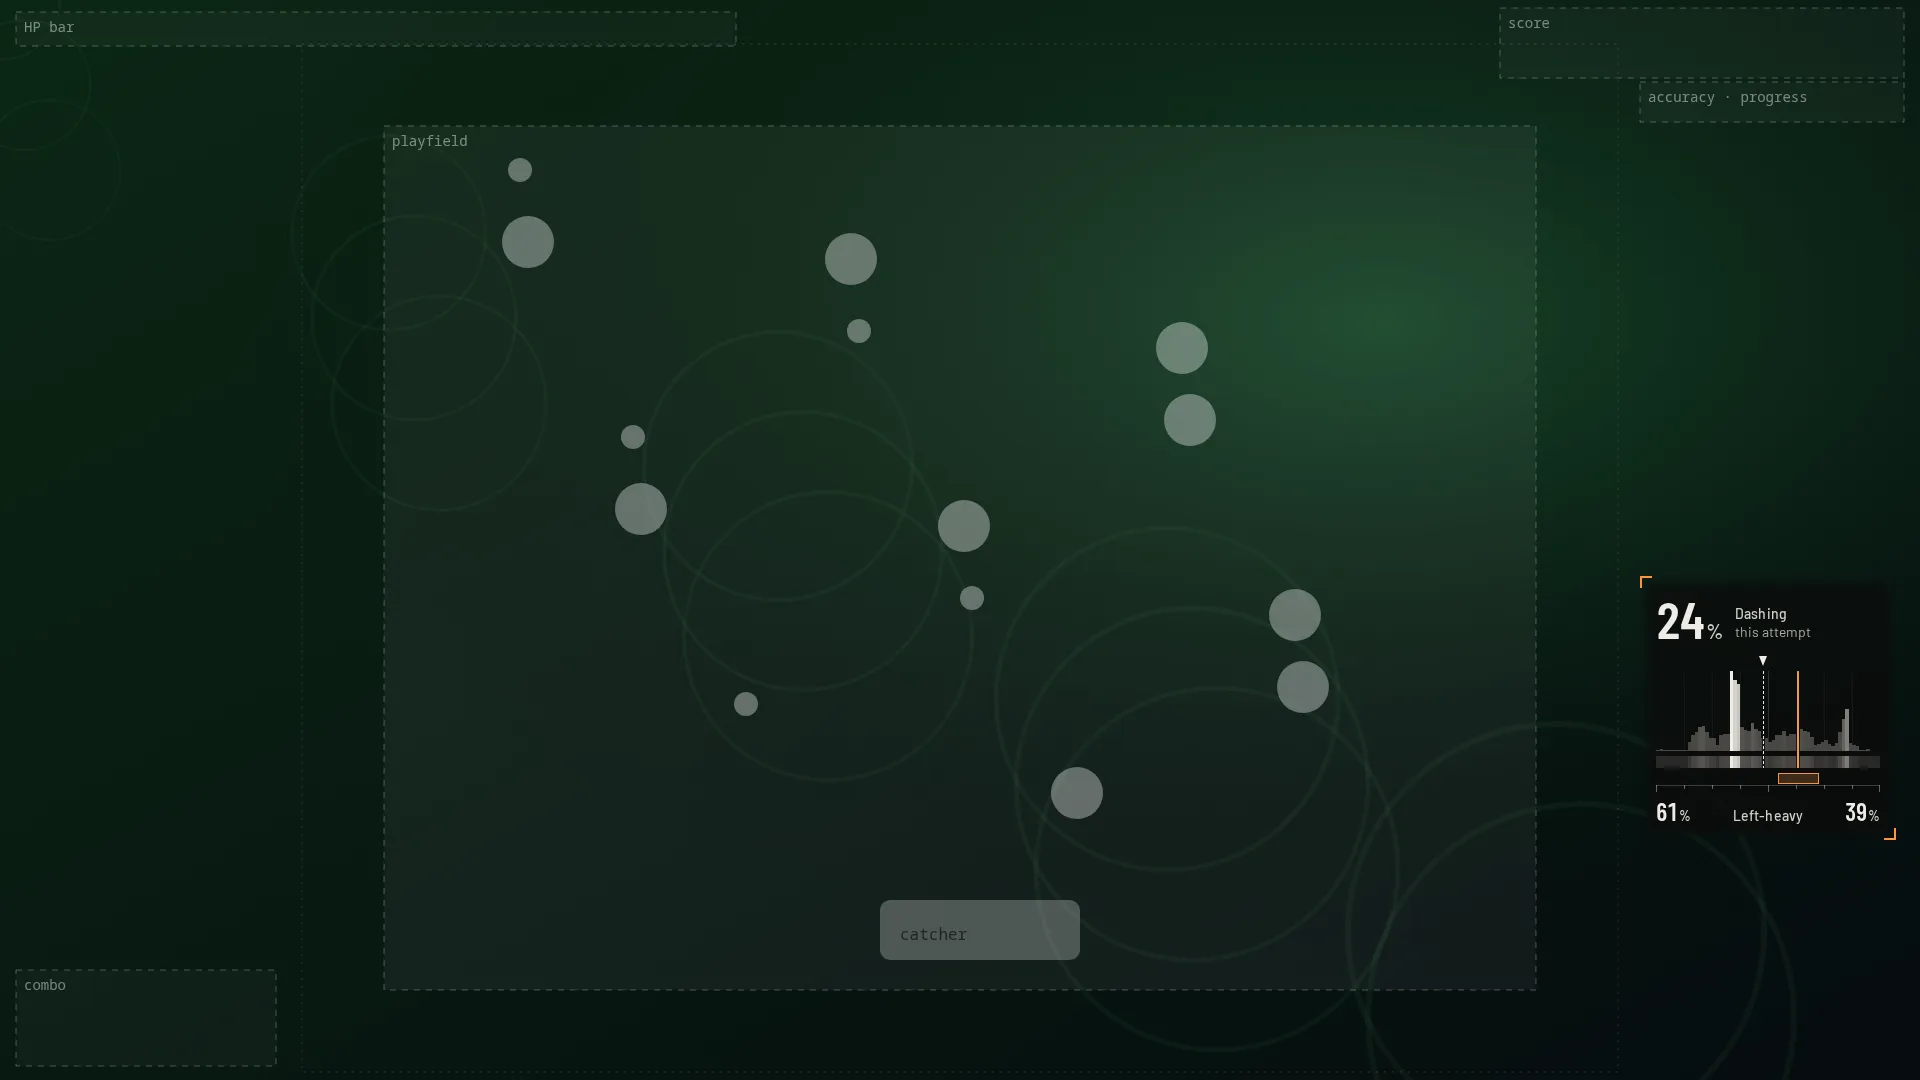
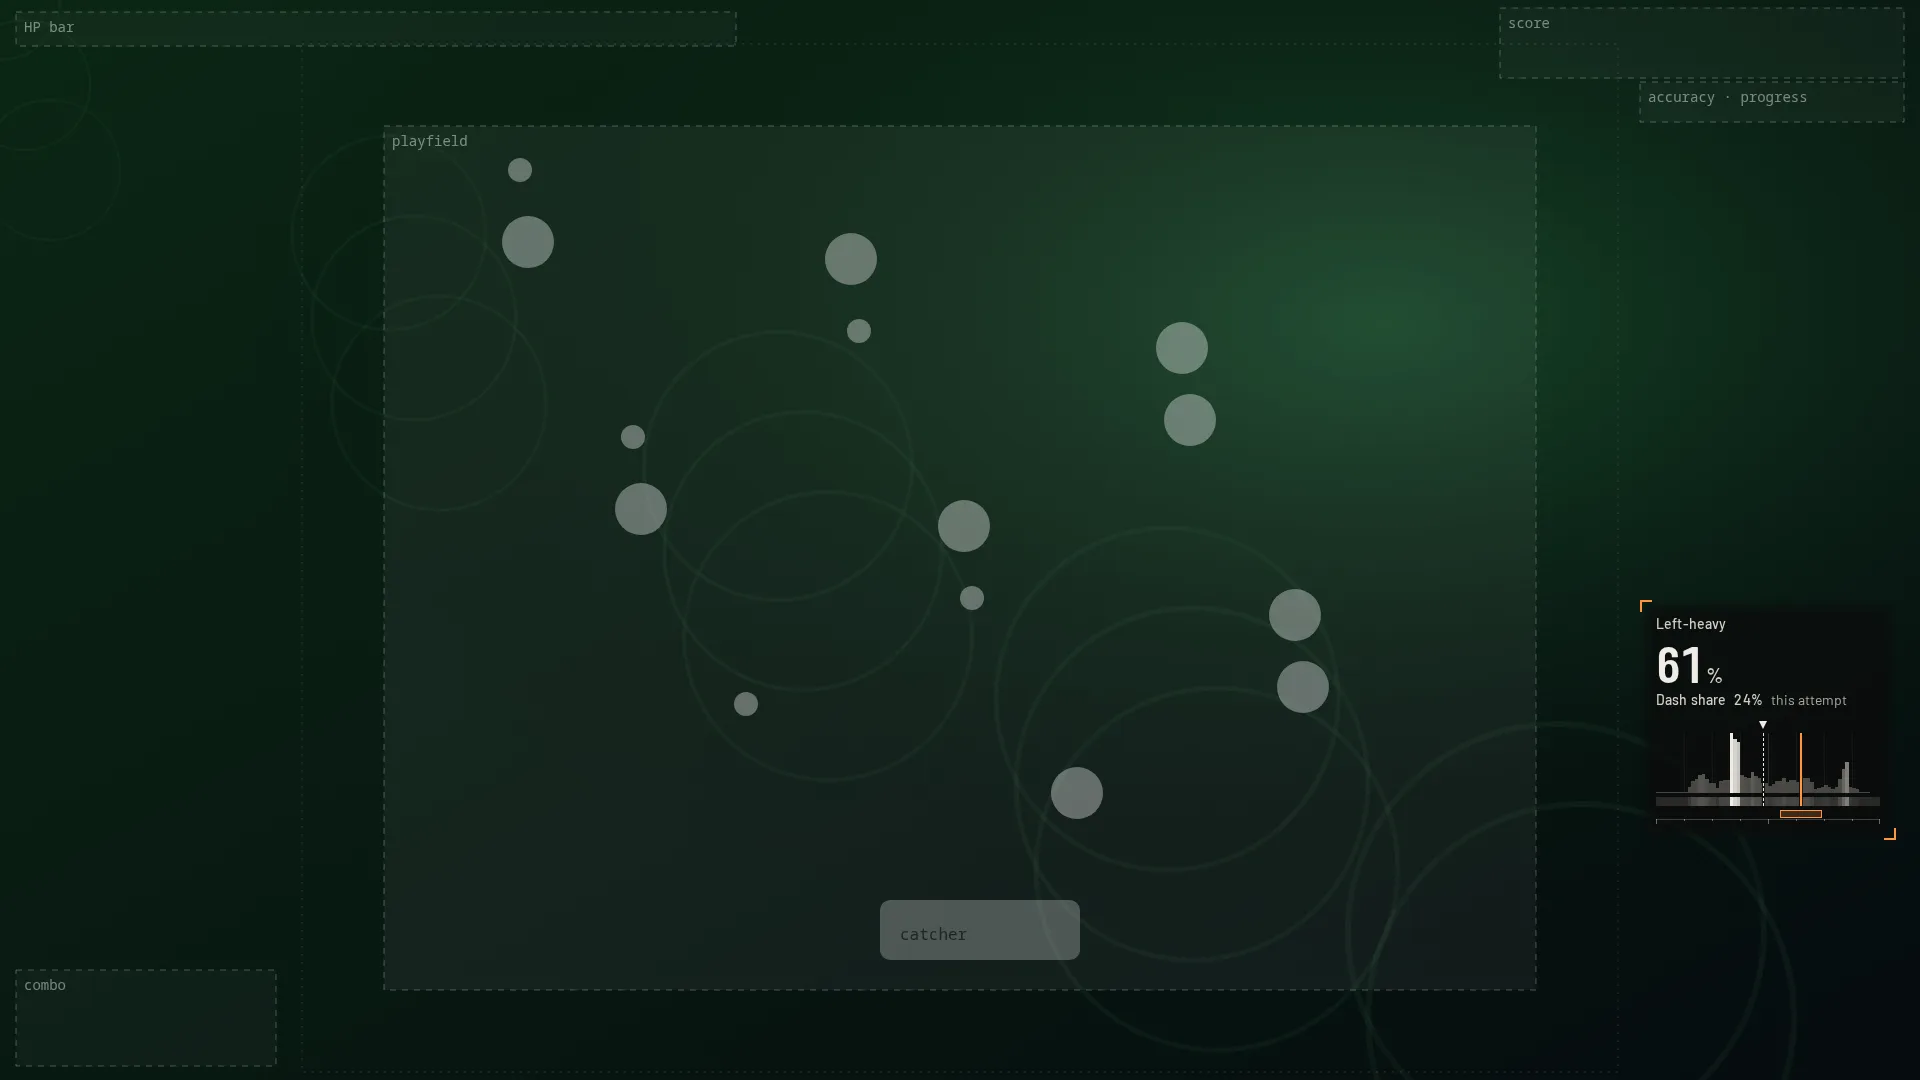
fix(catcher-heatmap): left/right balance is the hero, dash share a caption worded like catcher-trail
Balance word in five hysteresis steps (Right-heavy … Left-heavy) above the heavier side's share; the edge-aligned split row is gone and the strip grows from 71 to 103 px.

Changed region(s): [[0.8438, 0.55, 1.0, 0.7639]]

diff --git a/overlays/catcher-heatmap/overlay.js b/overlays/catcher-heatmap/overlay.js
@@ -19,11 +19,12 @@ const RESULTS = 7;
 const VERTICAL = { w: 256, h: 240 };
 const HORIZONTAL = { w: 420, h: 128 };
 const HORIZONTAL_ASPECT = 2;     // auto orientation: wider than 2:1 lays out as a band
-const COMPACT_BELOW = 0.8;       // u below this drops the scope caption (multiplayer cells)
-// Balance word: a side is "heavy" when it holds this share of the time or more, and stays heavy
-// until it drops BALANCE_HOLD points below.
-const HEAVY_FROM = 56;
-const BALANCE_HOLD = 3;
+const COMPACT_BELOW = 0.8;       // u below this drops the dash-share line (multiplayer cells)
+// Balance word over the hero: Even within EVEN_LEAN points of 50/50, heavy from HEAVY_LEAN points
+// (56/44), leaning in between; a class changes only BALANCE_HOLD points past its boundary.
+const EVEN_LEAN = 2;
+const HEAVY_LEAN = 6;
+const BALANCE_HOLD = 2;
 // New hottest spot: the peak bin moved at least this far from the last acknowledged one, after
 // the attempt settled, and not more often than every PEAK_GAP_MS.
 const PEAK_SHIFT_PX = 48;
@@ -45,7 +46,7 @@ const plotBox = $('plotBox');
 const canvas = $('plot');
 const ctx = canvas.getContext('2d', { alpha: true });
 const el = {
-  dashShare: $('dashShare'), left: $('left'), right: $('right'), balance: $('balance'), status: $('status'),
+  share: $('share'), dashShare: $('dashShare'), balance: $('balance'), status: $('status'),
 };
 
 // ---------------------------------------------------------------- attempt accumulator
@@ -516,49 +517,56 @@ function drawPeakFlash(ms) {
 // Each readout keeps the number it shows and writes only when that number changes; the shared
 // formatter returns the same string object until the shown value changes.
 const BLANK = -1;
+const fmtShare = numberFormatter('percent');
 const fmtDash = numberFormatter('percent');
-const fmtLeft = numberFormatter('percent');
-const fmtRight = numberFormatter('percent');
-const BALANCE = ['Right-heavy', 'Even', 'Left-heavy'];
-const shown = new Int32Array(4).fill(-2);   // dash, left, right, balance index
+// Balance classes, ordered by lean (left share − 50): the hero is the heavier side's share.
+const BALANCE = ['Right-heavy', 'Leaning right', 'Even', 'Leaning left', 'Left-heavy'];
+const BALANCE_UNKNOWN = 'Balance';
+const shown = new Int32Array(3).fill(-2);   // hero share, dash share, balance class
 // Whole numbers derived on every render (frame rate, so V8 keeps them unboxed); writeText only compares.
-const readNum = new Int32Array(4);
+const readNum = new Int32Array(3).fill(-1);
 let empty = null;
 
-// Re-shows the balance word when it changes side; created once and restarted.
+// Re-shows the balance word when it changes; created once and restarted.
 const balanceIn = el.balance.animate([{ opacity: 0 }, { opacity: 1 }], { duration: MOTION_MS.base, easing: 'cubic-bezier(0.16, 1, 0.3, 1)' });
 balanceIn.cancel();
 
-/** Readout numbers from the attempt sums (only while time is recorded). The balance word keeps its
- *  side until the share drops BALANCE_HOLD below the threshold, so it does not flicker at 55/56. */
+/** Balance class for a lean of `lean` points (left share − 50). */
+const balanceOf = lean => (lean >= HEAVY_LEAN ? 4 : lean > EVEN_LEAN ? 3 : lean >= -EVEN_LEAN ? 2 : lean > -HEAVY_LEAN ? 1 : 0);
+
+/** Readout numbers from the attempt sums (only while time is recorded). The balance word enters a
+ *  class at its threshold but moves back toward Even only BALANCE_HOLD points past it, so it does
+ *  not flicker on a boundary. */
 function deriveReadouts() {
   const total = att.total;
   const left = Math.round(att.leftTime / total * 100) | 0;
-  const right = 100 - left;
-  const was = readNum[3];
-  readNum[0] = Math.round(att.dashTime / total * 100) | 0;
-  readNum[1] = left;
-  readNum[2] = right;
-  readNum[3] = left >= HEAVY_FROM - (was === 2 ? BALANCE_HOLD : 0) ? 2 : right >= HEAVY_FROM - (was === 0 ? BALANCE_HOLD : 0) ? 0 : 1;
+  const lean = left - 50;
+  const was = readNum[2];
+  let cls = balanceOf(lean);
+  if (was > 2 && cls < was) cls = Math.min(was, balanceOf(lean + BALANCE_HOLD));
+  else if (was >= 0 && was < 2 && cls > was) cls = Math.max(was, balanceOf(lean - BALANCE_HOLD));
+  readNum[0] = left >= 50 ? left : 100 - left;
+  readNum[1] = Math.round(att.dashTime / total * 100) | 0;
+  readNum[2] = cls;
 }
 
 function writeText(timed) {
   if (timed !== !empty) { empty = !timed; hud.toggleAttribute('data-empty', empty); }
   if (!timed) {
     if (shown[0] !== BLANK) {
-      shown[0] = shown[1] = shown[2] = shown[3] = BLANK;
-      el.dashShare.textContent = DASH; el.left.textContent = DASH; el.right.textContent = DASH;
-      el.balance.textContent = '';
+      shown[0] = shown[1] = shown[2] = BLANK;
+      readNum[2] = -1;
+      el.share.textContent = DASH; el.dashShare.textContent = DASH;
+      el.balance.textContent = BALANCE_UNKNOWN;
     }
     return;
   }
-  if (readNum[0] !== shown[0]) { shown[0] = readNum[0]; el.dashShare.textContent = fmtDash(readNum[0]); }
-  if (readNum[1] !== shown[1]) { shown[1] = readNum[1]; el.left.textContent = fmtLeft(readNum[1]); }
-  if (readNum[2] !== shown[2]) { shown[2] = readNum[2]; el.right.textContent = fmtRight(readNum[2]); }
-  if (readNum[3] !== shown[3]) {
-    const first = shown[3] < 0;
-    shown[3] = readNum[3];
-    el.balance.textContent = BALANCE[readNum[3]];
+  if (readNum[0] !== shown[0]) { shown[0] = readNum[0]; el.share.textContent = fmtShare(readNum[0]); }
+  if (readNum[1] !== shown[1]) { shown[1] = readNum[1]; el.dashShare.textContent = fmtDash(readNum[1]); }
+  if (readNum[2] !== shown[2]) {
+    const first = shown[2] < 0;
+    shown[2] = readNum[2];
+    el.balance.textContent = BALANCE[readNum[2]];
     if (!first && motion !== 'off') { balanceIn.currentTime = 0; balanceIn.play(); }
   }
 }

diff --git a/overlays/catcher-heatmap/style.css b/overlays/catcher-heatmap/style.css
@@ -16,39 +16,36 @@ html, body { margin: 0; width: 100%; height: 100%; overflow: hidden; background:
   transition-timing-function: var(--ease-in);
 }
 
-/* Column (corners, the R4 slot): the dash share on top, the strip, the left/right split under it. */
+/* Column (corners, the R4 slot): the balance on top, the strip under it. */
 html[data-orient="vertical"] .hud { grid-template: "stats" auto "field" minmax(0, 1fr) / minmax(0, 1fr); }
-/* Band (top/bottom edges): the dash share beside the strip; align puts it on the screen-edge side. */
+/* Band (top/bottom edges): the balance beside the strip; align puts it on the screen-edge side. */
 html[data-orient="horizontal"] .hud { grid-template: "field stats" minmax(0, 1fr) / minmax(0, 1fr) auto; column-gap: var(--s-5); }
 html[data-orient="horizontal"][data-align="left"] .hud { grid-template: "stats field" minmax(0, 1fr) / auto minmax(0, 1fr); }
-/* Dash share: label, hero and scope caption stacked on the left. In the R4 column this keeps the
-   strip below box y 120, so the right edge of the top 120 px (stable's input overlay, screen
-   y 465–720) holds only empty backing. */
+/* Balance word over the hero (the heavier side's share of the time, so it describes the strip
+   under it), then the dash share as a caption with its window. Stacked on the left: in the R4
+   column the strip starts below box y 120, so the right edge of the top 120 px (stable's input
+   overlay, screen y 465–720) holds only empty backing. */
 .stats {
   grid-area: stats; min-width: 0;
-  display: grid; grid-template: "label" auto "hero" auto "scope" auto / minmax(0, 1fr); row-gap: var(--s-1);
+  display: grid; grid-template: "label" auto "hero" auto "dash" auto / minmax(0, 1fr); row-gap: var(--s-1);
   justify-items: start;
 }
 .stats .kit-hero { grid-area: hero; }
-.stats .kit-label { grid-area: label; }
-.scope { grid-area: scope; white-space: nowrap; }
+.stats > .kit-label { grid-area: label; }
+.dashline { grid-area: dash; margin: 0; display: flex; align-items: baseline; gap: var(--s-2); white-space: nowrap; }
 html[data-orient="horizontal"] .stats { align-self: center; }
 
-/* Strip and split */
-.field { grid-area: field; display: flex; flex-direction: column; gap: var(--s-2); min-width: 0; min-height: 0; }
+/* Strip */
+.field { grid-area: field; display: flex; flex-direction: column; min-width: 0; min-height: 0; }
 .plot { position: relative; flex: 1; min-height: calc(var(--u, 1) * 36px); }
 #plot { position: absolute; inset: 0; width: 100%; height: 100%; display: block; }
-/* Left and right shares sit under the strip's edges they describe; the balance word between them. */
-.split { flex: none; display: flex; align-items: baseline; gap: var(--s-2); }
-.split .side { font-size: calc(var(--u, 1) * 24px); }
-.balance { flex: 1; text-align: center; overflow: hidden; text-overflow: ellipsis; }
 
-/* Unknown (no gameplay time yet): dashes in the caption colour, units and balance word hidden. */
-.hud[data-empty] :is(#dashShare, #left, #right) { color: var(--text-3); }
-.hud[data-empty] .kit-unit { visibility: hidden; }
+/* Unknown (no gameplay time yet): dashes in the caption colour, units hidden. */
+.hud[data-empty] :is(#share, #dashShare) { color: var(--text-3); }
+.hud[data-empty] :is(.kit-unit, .pct) { visibility: hidden; }
 
-/* Small boxes (renderer cells, about half size): keep the numbers, drop the scope caption. */
-html[data-compact] .scope { display: none; }
+/* Small boxes (renderer cells, about half size): drop the dash-share line rather than shrink it. */
+html[data-compact] .dashline { display: none; }
 
 /* Connection / no-data notice, in the box corner on the aligned side. */
 .status {

diff --git a/overlays/catcher-heatmap/index.html b/overlays/catcher-heatmap/index.html
@@ -12,17 +12,12 @@
 <body>
 <section id="hud" class="hud kit" aria-label="Where the catcher spends its time" data-view="hidden" data-backing="scrim" data-motion="full" data-map-tint="on">
   <div class="stats">
-    <span class="kit-label">Dashing</span>
-    <span class="kit-hero" id="hero"><span id="dashShare">—</span><span class="kit-unit tight">%</span></span>
-    <span class="kit-caption scope">this attempt</span>
+    <span class="kit-label" id="balance">Balance</span>
+    <span class="kit-hero" id="hero"><span id="share">—</span><span class="kit-unit tight">%</span></span>
+    <p class="dashline"><span class="kit-label">Dash share</span><span class="kit-label dash-num"><span id="dashShare">—</span><span class="pct">%</span></span><span class="kit-caption">this attempt</span></p>
   </div>
   <div class="field">
     <div class="plot" id="plotBox"><canvas id="plot" aria-label="Time spent at each playfield position, with the live catcher and the centre of its time"></canvas></div>
-    <div class="split" id="split">
-      <span class="kit-value side"><span id="left">—</span><span class="kit-unit tight">%</span></span>
-      <span class="kit-label balance" id="balance"></span>
-      <span class="kit-value side"><span id="right">—</span><span class="kit-unit tight">%</span></span>
-    </div>
   </div>
 </section>
 <p id="status" class="status kit-caption" data-state="connecting">connecting</p>
